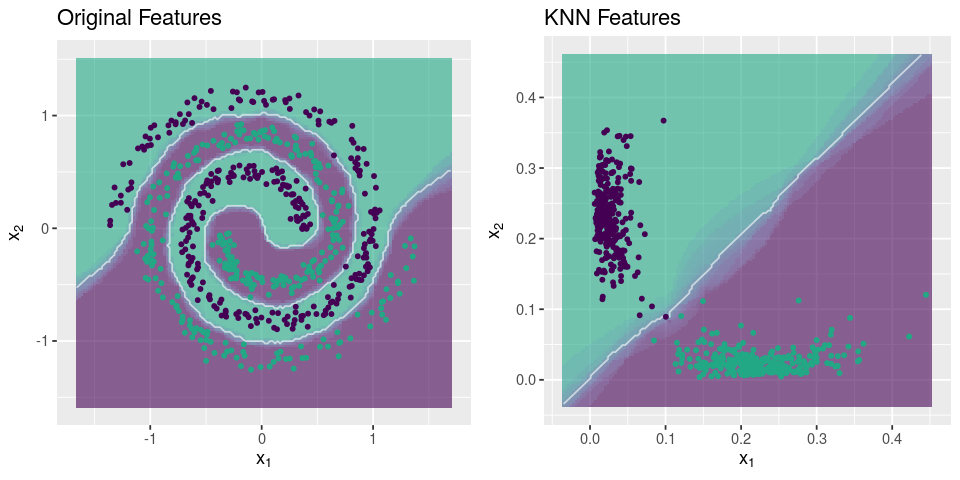
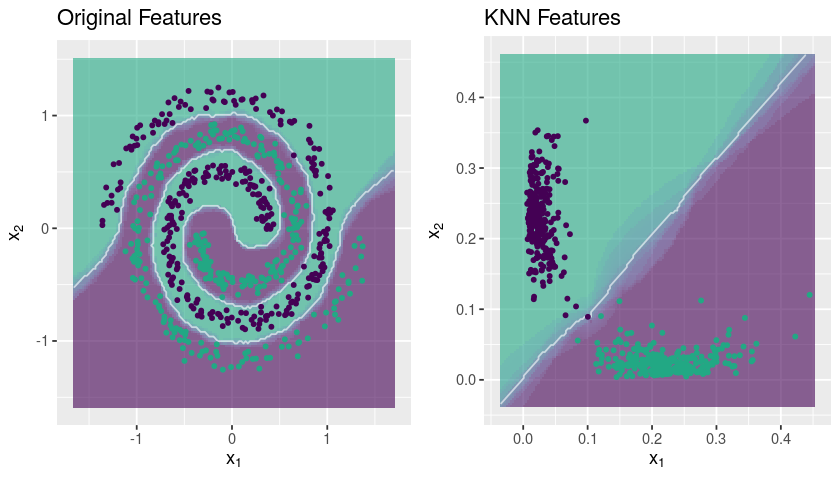
Resize all images on package documentation

diff --git a/docs/index.html b/docs/index.html
@@ -348,7 +348,7 @@ y.te   &lt;-<span class="st"> </span>spirals$y[-tr.idx]
 
 ## Plot decision boundary
 <span class="kw"><a href="reference/knnDecision.html">knnDecision</a></span>(x.tr, y.tr, x.te, y.te, <span class="dt">k =</span> <span class="dv">15</span>)</code></pre></div>
-<p><img src="index_files/figure-html/unnamed-chunk-7-1.png" width="960" style="display: block; margin: auto;"></p>
+<p><img src="index_files/figure-html/unnamed-chunk-7-1.png" width="840" style="display: block; margin: auto;"></p>
 </div>
 <div id="multi-class-problem" class="section level3">
 <h3 class="hasAnchor"><a href="#multi-class-problem" class="anchor"> </a>Multi-class Problem</h3>
@@ -365,7 +365,7 @@ y.te   &lt;-<span class="st"> </span>multi_spirals$y[-tr.idx]
 
 ## Plot decision boundary
 <span class="kw"><a href="reference/knnDecision.html">knnDecision</a></span>(x.tr, y.tr, x.te, y.te, <span class="dt">k =</span> <span class="dv">15</span>)</code></pre></div>
-<p><img src="index_files/figure-html/unnamed-chunk-8-1.png" width="960" style="display: block; margin: auto;"></p>
+<p><img src="index_files/figure-html/unnamed-chunk-8-1.png" width="840" style="display: block; margin: auto;"></p>
 </div>
 </div>
 <div id="performance-test" class="section level2">
@@ -426,27 +426,27 @@ res</code></pre></div>
 <th align="center">accuracy</th>
 </tr></thead><tbody><tr class="odd"><td align="center">knn</td>
 <td align="center">10000</td>
-<td align="center">1.212</td>
+<td align="center">1.291</td>
 <td align="center">73.38</td>
 </tr><tr class="even"><td align="center">fastknn</td>
 <td align="center">10000</td>
-<td align="center">0.14</td>
+<td align="center">0.152</td>
 <td align="center">77.04</td>
 </tr><tr class="odd"><td align="center">knn</td>
 <td align="center">15000</td>
-<td align="center">3.023</td>
+<td align="center">3.018</td>
 <td align="center">73.71</td>
 </tr><tr class="even"><td align="center">fastknn</td>
 <td align="center">15000</td>
-<td align="center">0.164</td>
+<td align="center">0.18</td>
 <td align="center">76.82</td>
 </tr><tr class="odd"><td align="center">knn</td>
 <td align="center">20000</td>
-<td align="center">6.111</td>
+<td align="center">6.381</td>
 <td align="center">76.38</td>
 </tr><tr class="even"><td align="center">fastknn</td>
 <td align="center">20000</td>
-<td align="center">0.194</td>
+<td align="center">0.205</td>
 <td align="center">80.37</td>
 </tr></tbody></table><p>The <code>fastknn</code> takes <strong>about 5s</strong> to fit the entire dataset.</p>
 </div>
@@ -574,7 +574,7 @@ g1 &lt;-<span class="st"> </span><span class="kw"><a href="reference/knnDecision
 g2 &lt;-<span class="st"> </span><span class="kw"><a href="reference/knnDecision.html">knnDecision</a></span>(new.data$new.tr, y.tr, new.data$new.te, y.te, <span class="dt">k =</span> <span class="dv">10</span>) +
 <span class="st">   </span><span class="kw">labs</span>(<span class="dt">title =</span> <span class="st">"KNN Features"</span>)
 <span class="kw">grid.arrange</span>(g1, g2, <span class="dt">ncol =</span> <span class="dv">2</span>)</code></pre></div>
-<p><img src="index_files/figure-html/unnamed-chunk-17-1.png" width="960" style="display: block; margin: auto;"></p>
+<p><img src="index_files/figure-html/unnamed-chunk-17-1.png" width="840" style="display: block; margin: auto;"></p>
 <p><strong>Mapping the <em>spirals</em> dataset</strong></p>
 <div class="sourceCode"><pre class="sourceCode r"><code class="sourceCode r">## Load data
 <span class="kw">data</span>(<span class="st">"spirals"</span>)
@@ -599,7 +599,7 @@ g1 &lt;-<span class="st"> </span><span class="kw"><a href="reference/knnDecision
 g2 &lt;-<span class="st"> </span><span class="kw"><a href="reference/knnDecision.html">knnDecision</a></span>(new.data$new.tr, y.tr, new.data$new.te, y.te, <span class="dt">k =</span> <span class="dv">10</span>) +
 <span class="st">   </span><span class="kw">labs</span>(<span class="dt">title =</span> <span class="st">"KNN Features"</span>)
 <span class="kw">grid.arrange</span>(g1, g2, <span class="dt">ncol =</span> <span class="dv">2</span>)</code></pre></div>
-<p><img src="index_files/figure-html/unnamed-chunk-18-1.png" width="960" style="display: block; margin: auto;"></p>
+<p><img src="index_files/figure-html/unnamed-chunk-18-1.png" width="840" style="display: block; margin: auto;"></p>
 </div>
 </div>
 </div>

diff --git a/docs/articles/fastknn.html b/docs/articles/fastknn.html
@@ -72,9 +72,9 @@ t1</code></pre></div>
 <table style="width:47%;" class="table"><colgroup><col width="16%"><col width="15%"><col width="15%"></colgroup><thead><tr class="header"><th align="center">user.self</th>
 <th align="center">sys.self</th>
 <th align="center">elapsed</th>
-</tr></thead><tbody><tr class="odd"><td align="center">0.552</td>
-<td align="center">0.008</td>
-<td align="center">0.559</td>
+</tr></thead><tbody><tr class="odd"><td align="center">0.504</td>
+<td align="center">0.012</td>
+<td align="center">0.515</td>
 </tr></tbody></table><p>Extremely fast!</p>
 </div>
 <div id="pre-processing" class="section level2">

diff --git a/README.md b/README.md
@@ -533,37 +533,37 @@ res
 <tr class="odd">
 <td align="center">knn</td>
 <td align="center">10000</td>
-<td align="center">1.232</td>
+<td align="center">1.212</td>
 <td align="center">73.38</td>
 </tr>
 <tr class="even">
 <td align="center">fastknn</td>
 <td align="center">10000</td>
-<td align="center">0.138</td>
+<td align="center">0.121</td>
 <td align="center">77.04</td>
 </tr>
 <tr class="odd">
 <td align="center">knn</td>
 <td align="center">15000</td>
-<td align="center">2.834</td>
+<td align="center">3.079</td>
 <td align="center">73.71</td>
 </tr>
 <tr class="even">
 <td align="center">fastknn</td>
 <td align="center">15000</td>
-<td align="center">0.167</td>
+<td align="center">0.149</td>
 <td align="center">76.82</td>
 </tr>
 <tr class="odd">
 <td align="center">knn</td>
 <td align="center">20000</td>
-<td align="center">6.068</td>
+<td align="center">6.02</td>
 <td align="center">76.38</td>
 </tr>
 <tr class="even">
 <td align="center">fastknn</td>
 <td align="center">20000</td>
-<td align="center">0.193</td>
+<td align="center">0.177</td>
 <td align="center">80.37</td>
 </tr>
 </tbody>
